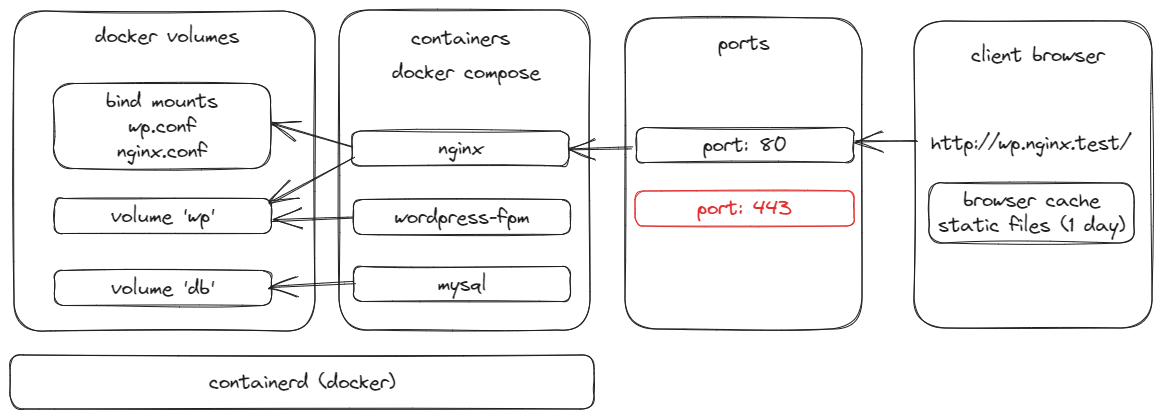
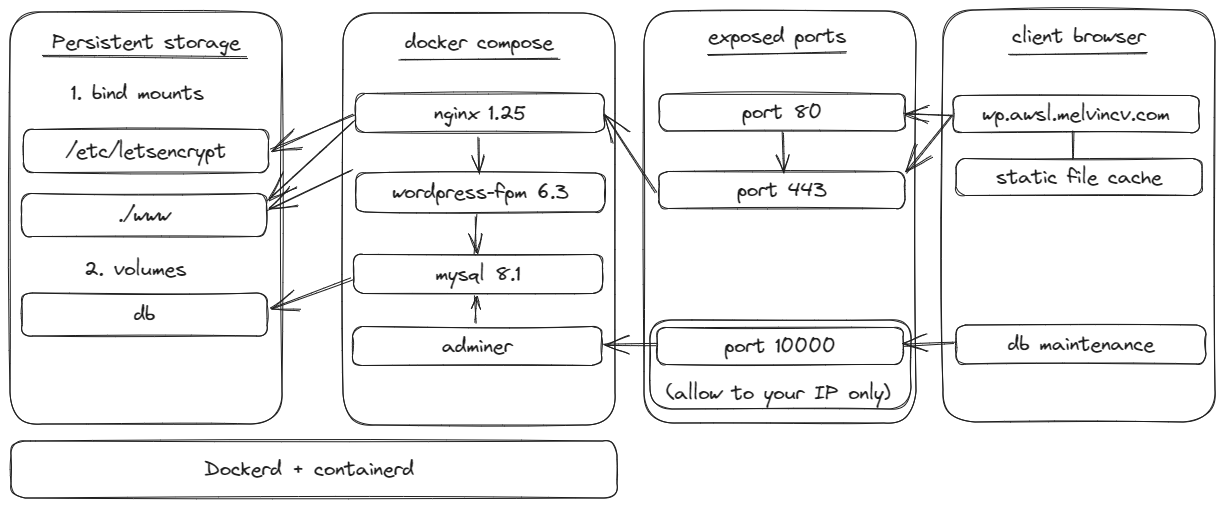
add architecture png

Changed region(s): [[0.0, 0.0, 1.0, 0.9928]]

diff --git a/README.md b/README.md
@@ -1,5 +1,7 @@
 # 3 tier Wordpress with NGINX and Docker
 
+![Architecture](arch/architecture.png)
+
 ## Objective
 
 Run a 3 tier Wordpress site on a **single instance** using Docker Compose. Static file caching should be enabled on the client side. \
